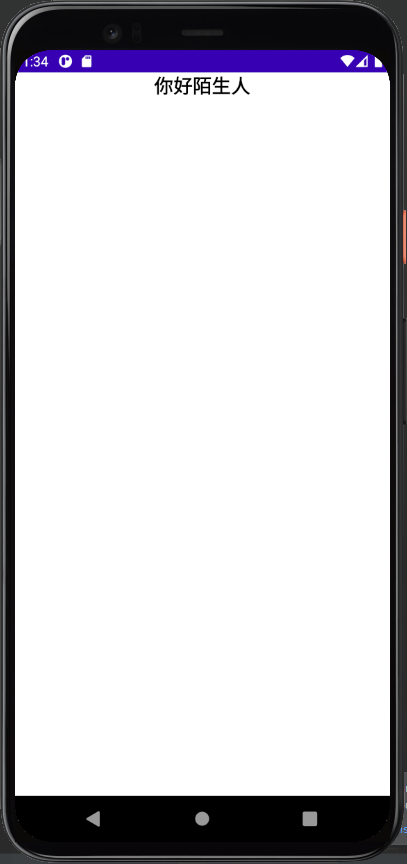
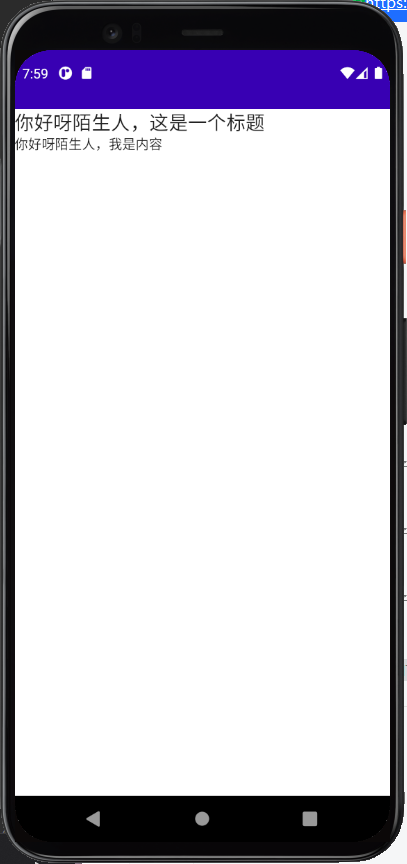
更新 text.md

diff --git a/docs/elements/text.md b/docs/elements/text.md
@@ -20,16 +20,14 @@ fun TextDemo() {
 ``` kotlin
 @Composable
 fun TextDemo() {
-
-    // 如果对 Column 感到陌生可以到 布局/Column 下查看
-
-    Column(
-        modifier = Modifier.fillMaxWidth(), // 设置占满整行
-        horizontalAlignment = Alignment.CenterHorizontally // 设置居中
-    ) {
+    Column{
         Text(
-            text = "你好陌生人",
+            text = "你好呀陌生人，这是一个标题",
             style = MaterialTheme.typography.h6
+        )
+        Text(
+            text ="你好呀陌生人，我是内容",
+            style = MaterialTheme.typography.body2
         )
     }
 }
